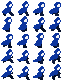
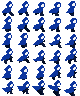
Added jumping and gravity.
The player can now jump by pressing the space bar. The player will
jump up and then fall back down due to gravity. The player can only
jump when they are on the ground. The jump animation is also played
when the player jumps.

diff --git a/src/main.rs b/src/main.rs
@@ -1,15 +1,40 @@
-use bevy::input::keyboard::*;
 use bevy::prelude::*;
+use bevy::{input::keyboard::*, transform};
 use bevy_parallax::{
     CreateParallaxEvent, LayerData, LayerRepeat, LayerSpeed, ParallaxCameraComponent,
     ParallaxMoveEvent, ParallaxPlugin, RepeatStrategy,
 };
 
+const PLAYER_SPRITE: &str = "player.png";
+const BACKGROUND: &str = "background-sunset/sky.png";
+const FLOOR: &str = "background-sunset/ground.png";
+const MOUNTAINS: &str = "background-sunset/mountains.png";
+const FOREGROUND: &str = "background-sunset/foreground.png";
+
+// spritesheet animation indices
+const WALK_ANIMATION: (usize, usize) = (0, 11);
+const RUN_ANIMATION: (usize, usize) = (12, 19);
+const JUMP_ANIMATION: (usize, usize) = (20, 24);
+const FALL_ANIMATION: (usize, usize) = (25, 29);
+
+const GROUND_Y: f32 = -64.0;
+const WALK_SPEED: f32 = 1.0;
+const RUN_SPEED: f32 = 1.5;
+const GRAVITY: f32 = 9.8;
+// Jumping parameters
+const JUMP_HEIGHT: f32 = 122.0;
+const JUMP_SPEED: f32 = 9.8 * 1.5;
+
+const ANIM_TIME: f32 = 0.1;
+
+// Player state
+#[derive(Debug, PartialEq, Eq)]
 enum PlayerState {
     Idle,
     Walking,
     Jumping,
     Running,
+    Falling,
 }
 
 #[derive(Component, Deref, DerefMut)]
@@ -33,6 +58,63 @@ struct AnimationIndices {
     first: usize,
     last: usize,
 }
+// system to change animation indices based on player state
+fn change_animation(mut player_query: Query<(&Player, &mut TextureAtlas, &mut AnimationIndices)>) {
+    let (player, mut atlas, mut indices) = player_query.single_mut();
+    let pr_first = indices.first;
+    let pr_last = indices.last;
+    match player.state {
+        PlayerState::Walking => {
+            indices.first = WALK_ANIMATION.0;
+            indices.last = WALK_ANIMATION.1;
+            if atlas.index < indices.first || atlas.index > indices.last {
+                // map to the appropriate index of the walk animation
+                let prev_length = pr_last - pr_first;
+                let curr_length = indices.last - indices.first;
+                let index = atlas.index - pr_first;
+                let percentage = index as f32 / prev_length as f32;
+                atlas.index = (percentage * curr_length as f32).round() as usize + indices.first;
+            }
+        }
+        PlayerState::Running => {
+            indices.first = RUN_ANIMATION.0;
+            indices.last = RUN_ANIMATION.1;
+            if atlas.index < indices.first || atlas.index > indices.last {
+                // map to the appropriate index of the walk animation
+                let prev_length = pr_last - pr_first;
+                let curr_length = indices.last - indices.first;
+                let index = atlas.index - pr_first;
+                let percentage = index as f32 / prev_length as f32;
+                atlas.index = (percentage * curr_length as f32).round() as usize + indices.first;
+            }
+        }
+        PlayerState::Jumping => {
+            indices.first = JUMP_ANIMATION.0;
+            indices.last = JUMP_ANIMATION.1;
+            if atlas.index < indices.first || atlas.index > indices.last {
+                // map to the appropriate index of the walk animation
+                let prev_length = pr_last - pr_first;
+                let curr_length = indices.last - indices.first;
+                let index = atlas.index - pr_first;
+                let percentage = index as f32 / prev_length as f32;
+                atlas.index = (percentage * curr_length as f32).round() as usize + indices.first;
+            }
+        }
+        PlayerState::Falling => {
+            indices.first = FALL_ANIMATION.0;
+            indices.last = FALL_ANIMATION.1;
+            if atlas.index < indices.first || atlas.index > indices.last {
+                // map to the appropriate index of the walk animation
+                let prev_length = pr_last - pr_first;
+                let curr_length = indices.last - indices.first;
+                let index = atlas.index - pr_first;
+                let percentage = index as f32 / prev_length as f32;
+                atlas.index = (percentage * curr_length as f32).round() as usize + indices.first;
+            }
+        }
+        _ => {}
+    }
+}
 
 // system to animate the player sprite and move player entity to the right
 fn animate_sprite(
@@ -40,19 +122,38 @@ fn animate_sprite(
     mut query: Query<(&AnimationIndices, &mut AnimationTimer, &mut TextureAtlas)>,
     mut player_query: Query<(&Player, &mut Transform)>,
 ) {
+    let (player, _) = player_query.single();
     for (indices, mut timer, mut atlas) in &mut query {
         timer.tick(time.delta());
         if timer.just_finished() {
             atlas.index = if atlas.index == indices.last {
-                indices.first
+                match player.state {
+                    PlayerState::Walking | PlayerState::Running => indices.first,
+                    PlayerState::Jumping | PlayerState::Falling => indices.last,
+                    _ => indices.first,
+                }
             } else {
                 atlas.index + 1
             };
         }
     }
 
-    for (_, mut transform) in &mut player_query.iter_mut() {
-        transform.translation.x += 1.0;
+    // move single player entity to the right with a speed that depends on the player state
+    let (player, mut transform) = player_query.single_mut();
+    match player.state {
+        PlayerState::Walking => {
+            transform.translation.x += 1.0;
+        }
+        PlayerState::Running => {
+            transform.translation.x += 1.5;
+        }
+        PlayerState::Jumping => {
+            transform.translation.x += 1.0;
+        }
+        PlayerState::Falling => {
+            transform.translation.x += 1.0;
+        }
+        _ => {}
     }
 }
 
@@ -61,10 +162,19 @@ fn animate_sprite(
 pub fn move_camera_system(
     camera_query: Query<Entity, With<Camera>>,
     mut move_event_writer: EventWriter<ParallaxMoveEvent>,
+    player_query: Query<(&Player, &Transform)>,
 ) {
+    let (player, transform) = player_query.single();
     let camera = camera_query.get_single().unwrap();
+    let mut camera_move_speed = Vec2::new(WALK_SPEED, 0.0);
+    match player.state {
+        PlayerState::Running => {
+            camera_move_speed = Vec2::new(RUN_SPEED, 0.0);
+        }
+        _ => {}
+    }
     move_event_writer.send(ParallaxMoveEvent {
-        camera_move_speed: Vec2::new(1.0, 0.0),
+        camera_move_speed,
         camera,
     });
 }
@@ -90,7 +200,7 @@ fn setup(
 
     let parallax_layers = vec![
         LayerData {
-            path: "background-sunset/foreground.png".to_string(),
+            path: FOREGROUND.to_string(),
             speed: LayerSpeed::Horizontal(0.1),
             repeat: LayerRepeat::horizontally(RepeatStrategy::Same),
             tile_size: Vec2::new(288.0, 192.0),
@@ -102,7 +212,7 @@ fn setup(
             ..Default::default()
         },
         LayerData {
-            path: "background-sunset/ground.png".to_string(),
+            path: FLOOR.to_string(),
             speed: LayerSpeed::Horizontal(0.4),
             repeat: LayerRepeat::horizontally(RepeatStrategy::Same),
             tile_size: Vec2::new(288.0, 192.0),
@@ -114,7 +224,7 @@ fn setup(
             ..Default::default()
         },
         LayerData {
-            path: "background-sunset/mountains.png".to_string(),
+            path: MOUNTAINS.to_string(),
             speed: LayerSpeed::Horizontal(0.9),
             repeat: LayerRepeat::horizontally(RepeatStrategy::Same),
             tile_size: Vec2::new(288.0, 192.0),
@@ -126,7 +236,7 @@ fn setup(
             ..Default::default()
         },
         LayerData {
-            path: "background-sunset/sky.png".to_string(),
+            path: BACKGROUND.to_string(),
             speed: LayerSpeed::Horizontal(1.0),
             repeat: LayerRepeat::horizontally(RepeatStrategy::Same),
             tile_size: Vec2::new(288.0, 192.0),
@@ -146,28 +256,30 @@ fn setup(
 
     // Player entity from a spritesheet
     // The spritesheet is a 4x5 grid of 16x16 sprites
-    let layout = TextureAtlasLayout::from_grid(Vec2::new(16.0, 16.0), 4, 5, None, None);
+    let layout = TextureAtlasLayout::from_grid(Vec2::new(16.0, 16.0), 5, 6, None, None);
     let texture = asset_server.load("player.png");
     let texture_atlas_layout = texture_atlas_layouts.add(layout);
 
-    let walk_animation_indices = AnimationIndices { first: 1, last: 12 };
     let player_sprite = commands
         .spawn((
             SpriteSheetBundle {
                 texture,
                 atlas: TextureAtlas {
                     layout: texture_atlas_layout,
-                    index: walk_animation_indices.first,
+                    index: WALK_ANIMATION.0,
                 },
                 transform: Transform {
-                    translation: Vec3::new(0.0, scale.y * -8.0, 1.5),
+                    translation: Vec3::new(0.0, GROUND_Y, 1.5),
                     scale: Vec3::splat(4.0),
                     ..default()
                 },
                 ..default()
             },
-            walk_animation_indices,
-            AnimationTimer(Timer::from_seconds(0.1, TimerMode::Repeating)),
+            AnimationIndices {
+                first: WALK_ANIMATION.0,
+                last: FALL_ANIMATION.1,
+            },
+            AnimationTimer(Timer::from_seconds(ANIM_TIME, TimerMode::Repeating)),
             Player {
                 on_ground: true,
                 state: PlayerState::Walking,
@@ -177,29 +289,57 @@ fn setup(
 }
 
 fn player_movement(
-    keyboard_input: ButtonInput<KeyCode>,
-    mut query: Query<(&Player, &mut Transform)>,
+    keyboard_input: Res<ButtonInput<KeyCode>>,
+    mut player_position: Query<(&mut Player, &mut Transform)>,
 ) {
-    for (_, mut transform) in query.iter_mut() {
-        if keyboard_input.pressed(KeyCode::ArrowUp) {
-            // Jump but only if the player is on the ground
-            if transform.translation.y <= -260.0 {
-                transform.translation.y += 102.0; // Move up
+    let (mut player, mut transform) = player_position.single_mut();
+    if keyboard_input.pressed(KeyCode::Space) {
+        if player.on_ground {
+            player.on_ground = false;
+            player.state = PlayerState::Jumping;
+            info!("Player state: {:?}", player.state);
+            transform.translation.y += JUMP_SPEED;
+        } else if player.state == PlayerState::Jumping {
+            transform.translation.y += JUMP_SPEED;
+            if transform.translation.y >= GROUND_Y + JUMP_HEIGHT {
+                transform.translation.y = GROUND_Y + JUMP_HEIGHT;
+                player.state = PlayerState::Falling;
+                info!("Player state: {:?}", player.state);
             }
-        } else if keyboard_input.pressed(KeyCode::ArrowLeft) {
-            transform.translation.x -= 2.0; // Move left
-        } else if keyboard_input.pressed(KeyCode::ArrowRight) {
-            transform.translation.x += 2.0; // Move right
         }
+    }
+    if keyboard_input.pressed(KeyCode::ArrowLeft) {
+        transform.translation.x -= 2.0; // Move left
+    }
+
+    if keyboard_input.pressed(KeyCode::ArrowRight) {
+        transform.translation.x += 2.0; // Move right
+    }
+
+    // change player state based on n key press
+    if keyboard_input.just_pressed(KeyCode::ShiftLeft) {
+        // change player state to running
+        player.state = PlayerState::Running;
+        info!("Player state: {:?}", player.state);
+    } else if keyboard_input.just_released(KeyCode::ShiftLeft) {
+        // change player state to walking
+        player.state = PlayerState::Walking;
+        info!("Player state: {:?}", player.state);
+    }
+
+    // if the player is on the ground, change the player state to walking
+    if transform.translation.y <= GROUND_Y && !player.on_ground {
+        player.on_ground = true;
+        transform.translation.y = GROUND_Y;
+        player.state = PlayerState::Walking;
     }
 }
 
 // apply gravity to the player entity and check if it's on the ground
 fn apply_gravity(mut query: Query<(&Player, &mut Transform)>) {
-    for (_, mut transform) in query.iter_mut() {
-        if transform.translation.y > -280.0 {
-            transform.translation.y -= 9.8;
-        }
+    let (player, mut transform) = query.single_mut();
+    if !player.on_ground {
+        transform.translation.y -= GRAVITY;
     }
 }
 
@@ -223,6 +363,15 @@ fn main() {
         )
         .add_plugins(ParallaxPlugin)
         .add_systems(Startup, setup)
-        .add_systems(Update, (animate_sprite, move_camera_system))
+        .add_systems(
+            Update,
+            (
+                animate_sprite,
+                move_camera_system,
+                player_movement,
+                apply_gravity,
+                change_animation,
+            ),
+        )
         .run();
 }
